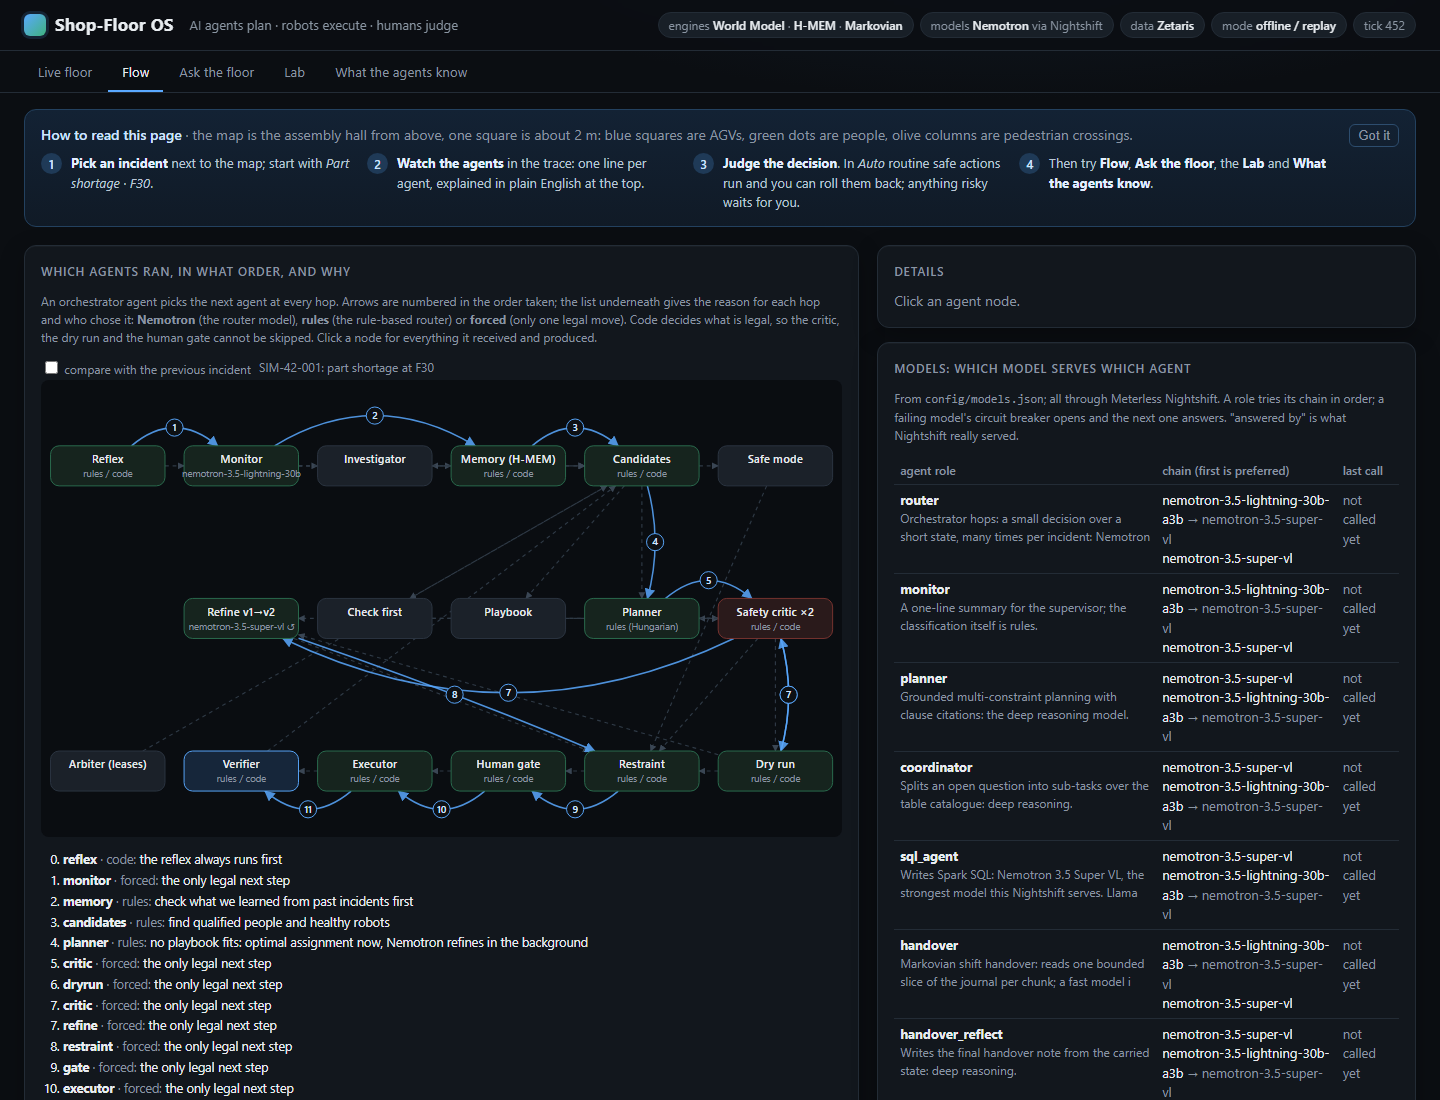
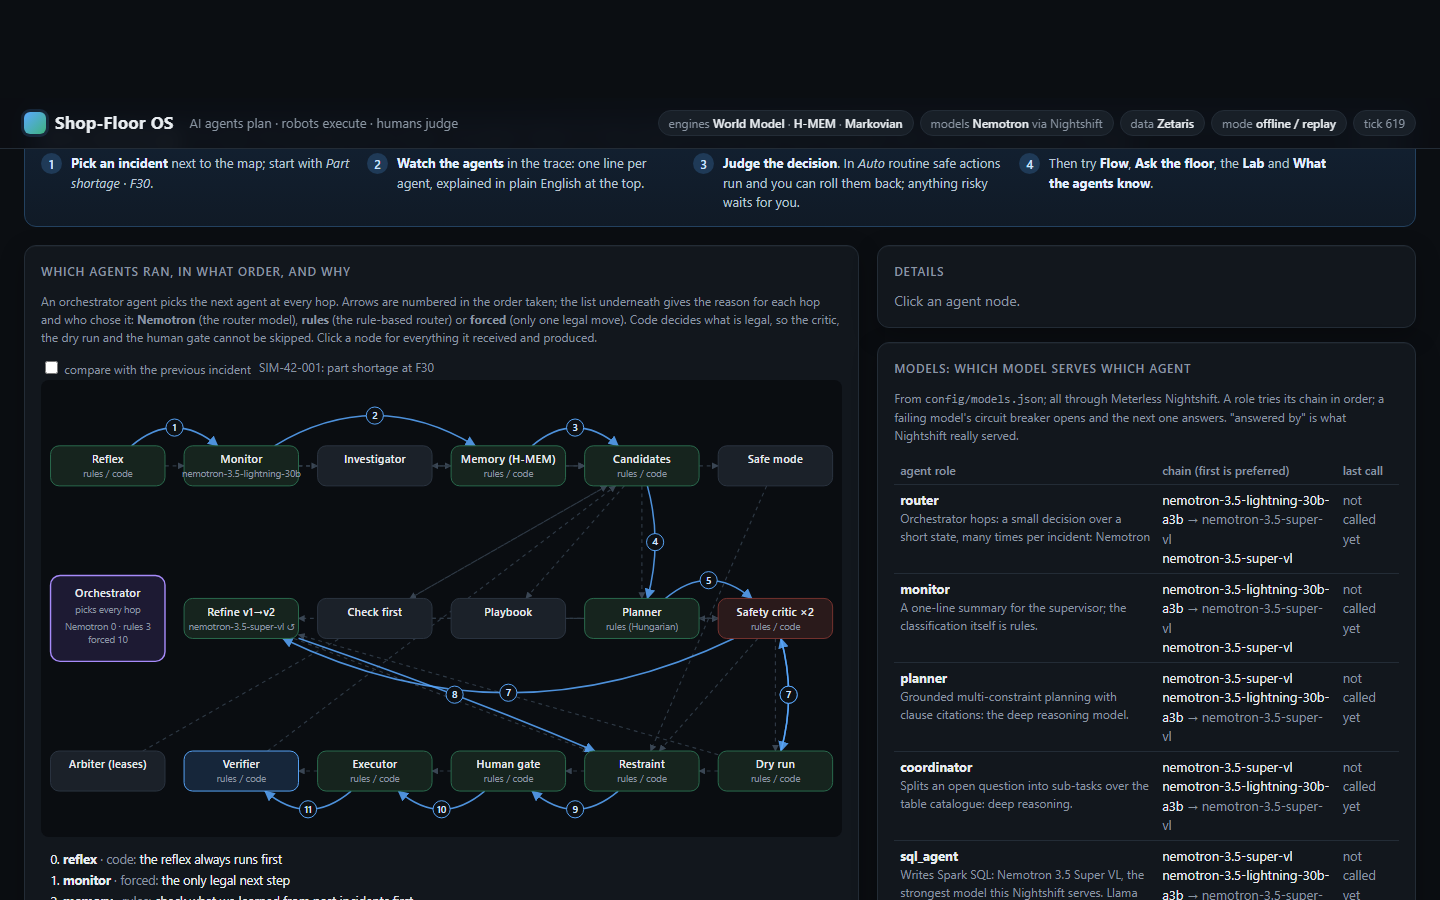
Flow graph: an Orchestrator node with who chose each hop

diff --git a/web/index.html b/web/index.html
@@ -91,7 +91,7 @@
   svg.fg .nd.f rect { stroke:#7a3430; fill:#2a1a1b; } svg.fg .nd.a rect { stroke:#5aa9ff; fill:#16263a; }
   svg.fg .nd.s rect { stroke:#f0c674; stroke-width:2; } svg.fg .nd { cursor:pointer; }
   svg.fg text { fill:#e7eaee; font:600 12px system-ui; } svg.fg text.m { fill:#8b95a1; font:10px system-ui; }
-  svg.fg .pe { stroke:#2f3a46; stroke-width:1.2; stroke-dasharray:4 4; }
+  svg.fg .nd.o rect { fill:#1d1a33; stroke:#a78bfa; stroke-width:1.5; } svg.fg .pe { stroke:#2f3a46; stroke-width:1.2; stroke-dasharray:4 4; }
   svg.fg .ed { fill:none; stroke:#5aa9ff; stroke-width:1.6; opacity:.85; } svg.fg .ed.r { stroke:#a78bfa; }
   svg.fg .hn circle { fill:#0d1014; stroke:#5aa9ff; } svg.fg .hn text { font:600 10px system-ui; fill:#cfe4ff; }
   .flow { display:flex; flex-wrap:wrap; gap:10px; align-items:stretch; }
@@ -454,9 +454,16 @@ function graphSVG(path, last, rejects) {
     return `<g class="nd${cls}${act}${sel}" data-k="${k}"><rect x="${x-60}" y="${y-21}" width="120" height="42" rx="9"/>
       <text x="${x}" y="${y-3}" text-anchor="middle">${esc(name)}${visits[k] > 1 ? " ×" + visits[k] : ""}</text>
       <text class="m" x="${x}" y="${y+12}" text-anchor="middle">${esc(m ? m.slice(0, 26) : visits[k] ? "rules / code" : "")}</text></g>`; }).join("");
+  const by = {nemotron:0, rules:0, forced:0, code:0};
+  path.forEach(p => { const b = String(p.by || ""); const k = b.startsWith("nemotron") ? "nemotron" : b in by ? b : "rules"; by[k]++; });
+  const orch = `<g class="nd o" data-k="orchestrator"><rect x="10" y="205" width="120" height="90" rx="10"/>
+      <text x="70" y="228" text-anchor="middle">Orchestrator</text>
+      <text class="m" x="70" y="244" text-anchor="middle">picks every hop</text>
+      <text class="m" x="70" y="262" text-anchor="middle">${path.length ? `Nemotron ${by.nemotron} · rules ${by.rules}` : "router: Nemotron"}</text>
+      <text class="m" x="70" y="276" text-anchor="middle">${path.length ? `forced ${by.forced + by.code}` : "legal moves: code"}</text></g>`;
   return `<svg class="fg" viewBox="0 0 840 480" role="img" aria-label="Agent route graph"><defs><marker id="ah" viewBox="0 0 10 10" refX="9" refY="5"
     markerWidth="7" markerHeight="7" orient="auto-start-reverse"><path d="M0,0 L10,5 L0,10 z" fill="#5aa9ff"/></marker><marker id="ah0" viewBox="0 0 10 10" refX="9" refY="5"
-    markerWidth="6" markerHeight="6" orient="auto-start-reverse"><path d="M0,0 L10,5 L0,10 z" fill="#3a4654"/></marker></defs>${base}${edges}${nodes}${nums}
+    markerWidth="6" markerHeight="6" orient="auto-start-reverse"><path d="M0,0 L10,5 L0,10 z" fill="#3a4654"/></marker></defs>${base}${edges}${nodes}${orch}${nums}
     ${path.length ? "" : '<text class="m" x="420" y="470" text-anchor="middle">Dashed: every move the rules allow. Run an incident to see the route the orchestrator took.</text>'}</svg>`;
 }
 function hopsHTML(path, rejects) {
@@ -492,6 +499,11 @@ function flowStep(st) {
 }
 function flowShow(k) {
   flowSel = k; flowRender();
+  if (k === "orchestrator") { $("flowtitle").textContent = "Orchestrator: details";
+    $("flowdetail").classList.remove("muted");
+    $("flowdetail").innerHTML = "<p>The orchestrator (<code>app/dynamic.py</code>) decides the next agent at every hop. Code lists the moves that are legal right now, so the critic, the dry run and the human gate can never be skipped. When there is a real choice, the router model (Nemotron 3.5 Lightning via Nightshift) picks one and gives a reason; an illegal pick is rejected and the rule-based router decides. A forced move (one legal option) costs no model call.</p>"
+      + (flowPath.length ? `<p>Last incident: ${flowPath.length} hops, listed under the graph with who chose each one.</p>` : "<p>Run an incident to see its route.</p>");
+    return; }
   const st = flowLast[k], name = NODES[k][2];
   $("flowtitle").textContent = `${name}: details`;
   if (!st) { $("flowdetail").innerHTML = "This agent did not run for this incident: the orchestrator chose another route."; return; }
